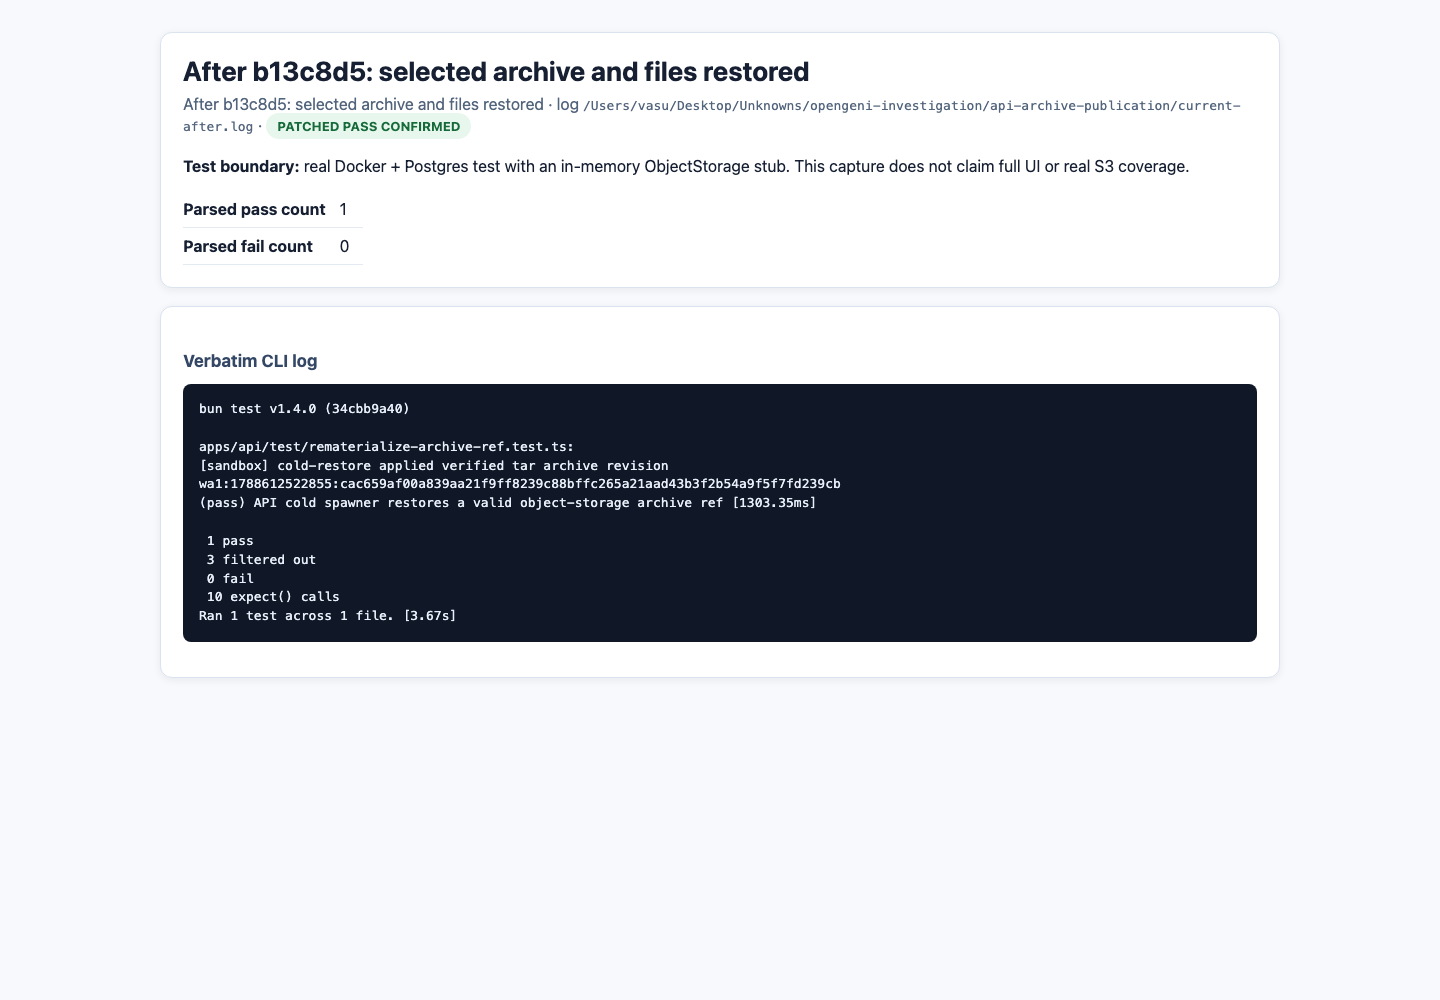
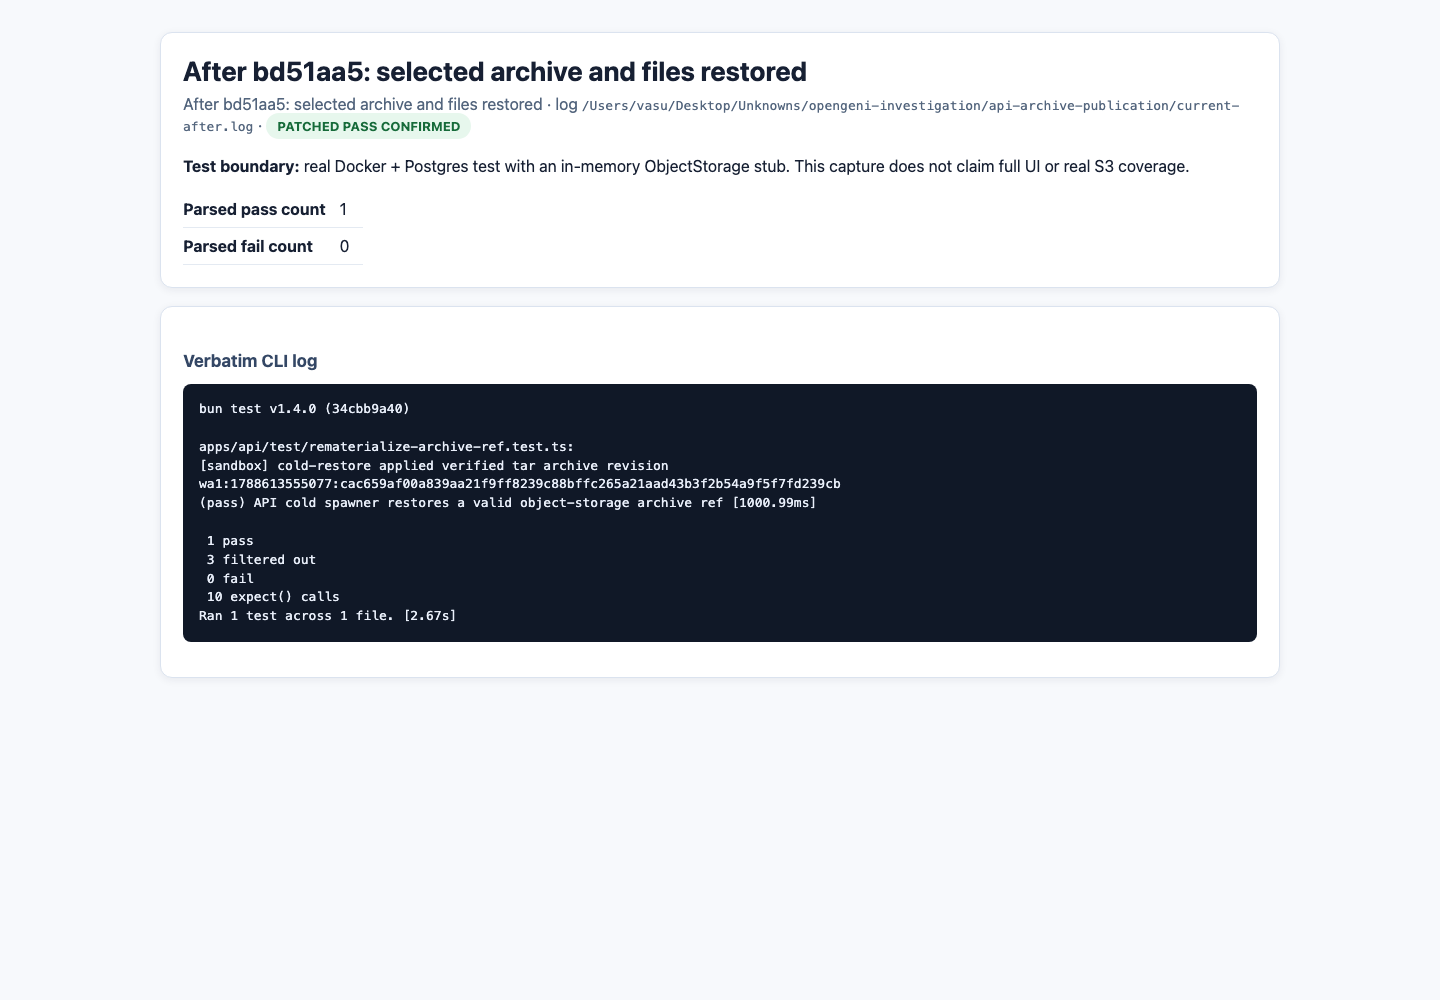
docs: refresh captures for final reviewed archive fix

Changed region(s): [[0.1562, 0.062, 0.8438, 0.124], [0.1875, 0.465, 0.2188, 0.496]]

diff --git a/README.md b/README.md
@@ -1,7 +1,7 @@
 # API archive-reference restoration evidence
 
 Baseline: OpenGeni b4575cc.
-Patched source: b13c8d5, fix(api): restore object-backed workspace archives.
+Patched source: bd51aa5, including formatting of the archive-storage forwarding.
 
 The before and after screenshots render the complete output of the same desired-success test.
 The test fails on the baseline and passes with the patch.
